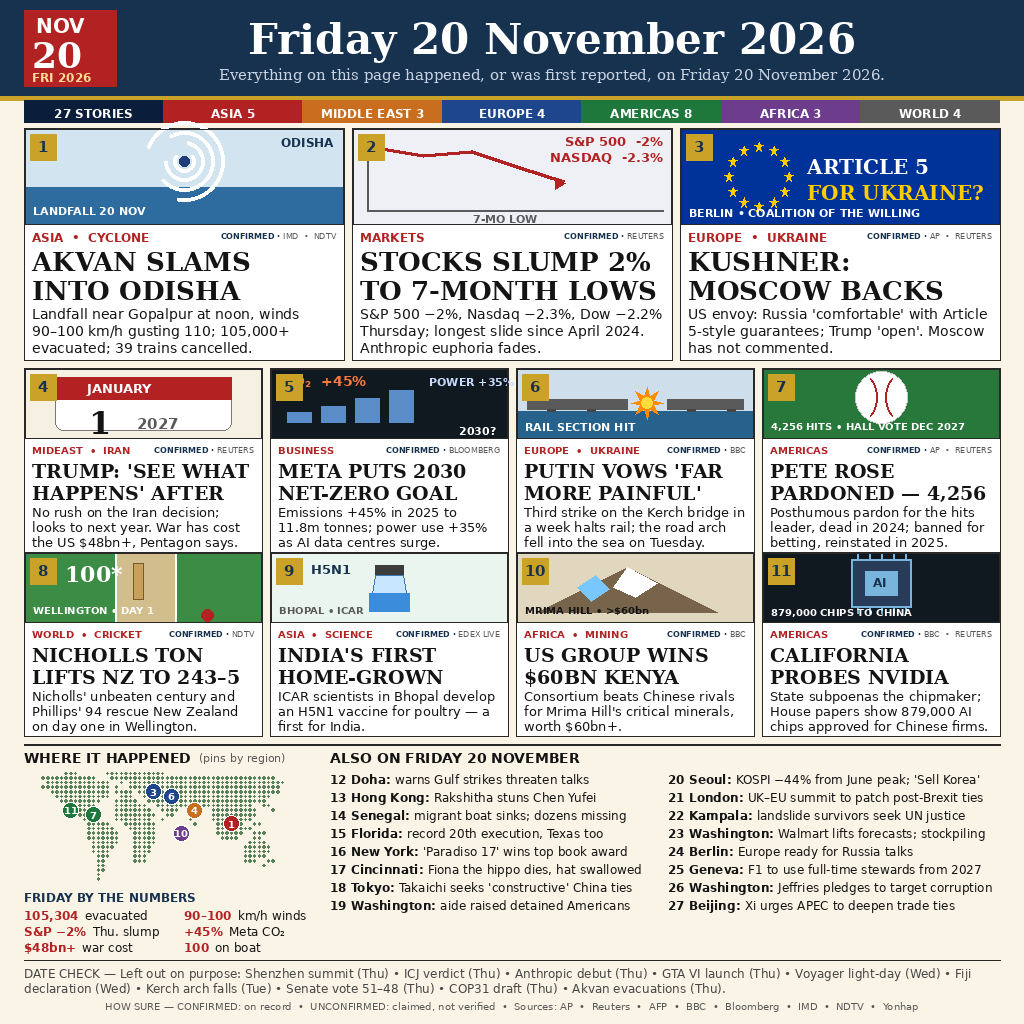
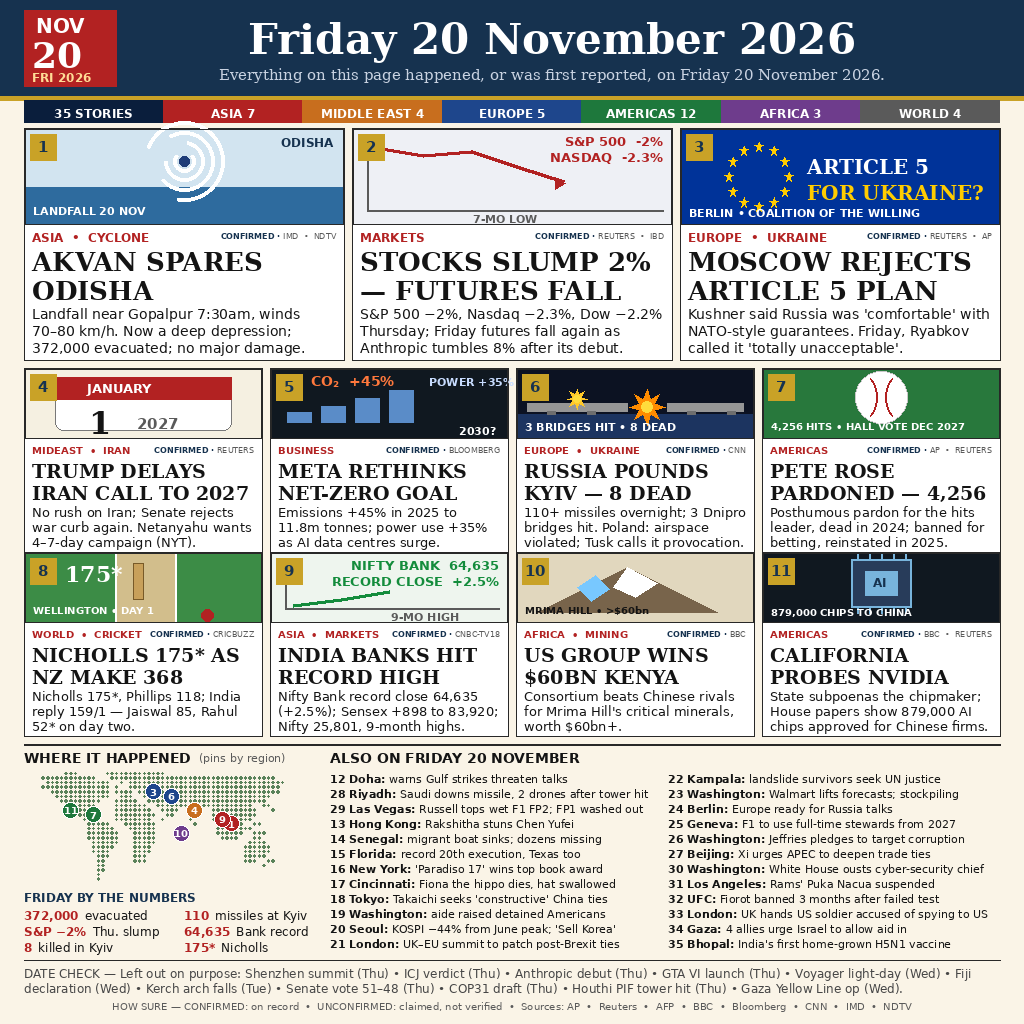
news-image-20261120 v2: refreshed 20 Nov stories (35 stories, 11 cards + 24 briefs)

diff --git a/main.ts b/main.ts
@@ -1,8 +1,17 @@
-// News-image entry for 20 November 2026 (Node 22, standard library only).
+// News-image entry for 20 November 2026, v2 refresh (Node 22, standard library only).
 // The image is drawn once and shipped in this repo as entry.png; the program
 // copies it to the output directory the grader provides. After writing, it
 // reads the output back and verifies it is byte-identical to the source, so
 // a partial or corrupted write fails loudly instead of grading a broken file.
+//
+// v2 (refreshed 20/11 ~19:45 +07): 35 stories — Akvan aftermath (372,000
+// evacuated, no lives lost), Friday market futures lower, Moscow's Article 5
+// pushback, the overnight Kyiv barrage, India banks at a record high, and
+// 24 briefs. Drawn with PIL by draw20-v2.py (build tooling, not part of
+// the entry); entry.png is 1024x1024, 235,200 B, sha256
+// eeb1a4c9030139b59859bcab81cadcc6d00921d61d3279a7c8ca5ec95624d13f —
+// drawn twice, byte-identical, and main.ts re-verified to copy it
+// byte-identical to two output dirs.
 //
 // Run it locally with:
 //   mkdir -p out && MAKEFUN_OUTPUT_DIR=out node main.ts

diff --git a/README.md b/README.md
@@ -1,15 +1,44 @@
-# news-image-20261120 — v1 port
+# news-image-20261120 — v2 refresh
 
-Front page "THE WORLD TODAY — Friday 20 November 2026", 27 stories,
+Front page "THE WORLD TODAY — Friday 20 November 2026", **35 stories**,
 drawn with PIL (same layout family as the 19/11 v15 page: 3 big cards,
-8 small cards, world map, "Friday by the numbers", 16 briefs, date check).
+8 small cards, world map, "Friday by the numbers", 24 briefs, date check).
 
-- `entry.png` — 1024×1024 PNG, 215,089 B, sha256
[1 lines of base64/hex data omitted]
+- `entry.png` — 1024×1024 PNG, 235,200 B, sha256
[1 lines of base64/hex data omitted]
+  (drawn twice from `draw20-v2.py`, byte-identical both runs).
 - `main.ts` — copies `entry.png` to the output dir, then reads it back
   and throws unless byte-identical.
 
-Ported byte-identical from the v1 repo (`news-image-20261120`,
-commit `e9f9847`) into this beacon-rooted entry repo. The LICENSE here
-is the one `makefun init` wrote (copyright holder: the entry wallet),
-which differs from v1's LICENSE only in that holder line.
+## What changed vs v1 (27 → 35 stories, refreshed 20/11 ~19:45 +07)
+
+- **1 Akvan aftermath:** landfall done 7:30am, 70–80 km/h gusting 90,
+  weakened to a deep depression; **no major damage, no lives lost**;
+  372,000 evacuated (IMD, NDTV, The Hindu, New Indian Express).
+- **2 Markets:** Thursday close S&P −2% etc. + Friday futures lower,
+  Anthropic −8% pre-market after its debut reversal (Reuters, IBD).
+- **3 Kushner:** Friday pushback — Ryabkov calls NATO-style guarantees
+  "totally unacceptable"; Macron reopens NATO membership (Reuters, AP).
+- **4 Trump/Iran:** Senate again rejects a war curb; Netanyahu pressing
+  for a 4–7-day campaign (NYT via Reuters/Haaretz).
+- **6 Kyiv barrage (replaces Putin Kerch vow):** 110+ missiles overnight,
+  8 killed, 3 Dnipro bridges damaged; Poland airspace violated, Tusk
+  calls it a "deliberate provocation" (CNN, The Times, Kyiv Post).
+- **8 Cricket day 2:** NZ 368 (Nicholls 175*, Phillips 118), India 159/1
+  (Jaiswal 85, Rahul 52*) (Cricbuzz, New Indian Express).
+- **9 India banks (replaces H5N1 vaccine → brief 35):** Nifty Bank record
+  close 64,635 (+2.5%), Sensex +898 to 83,920, Nifty 25,801 — 9-month
+  highs (CNBC-TV18, ZeeBiz, Moneycontrol).
+- **New briefs 28–35:** Riyadh Friday intercept, Las Vegas F1 FP2
+  (Russell tops wet session), White House cyber chief ousted, Rams'
+  Puka Nacua suspended, UFC Fiorot banned, UK hands US soldier accused
+  of spying to the US, Gaza aid call, Bhopal H5N1 vaccine.
+
+## History
+
+v1 (27 stories, built 20/11 ~07:15 +07) lives in `news-image-20261120`
+(commit `e9f9847`); this repo is beacon-rooted (`makefun init`, anchor
+`da97075`, drand round 34124920) and v1 was ported here byte-identical
+before the v2 refresh. The LICENSE here is the one `makefun init` wrote
+(copyright holder: the entry wallet), which differs from v1's LICENSE
+only in that holder line.
